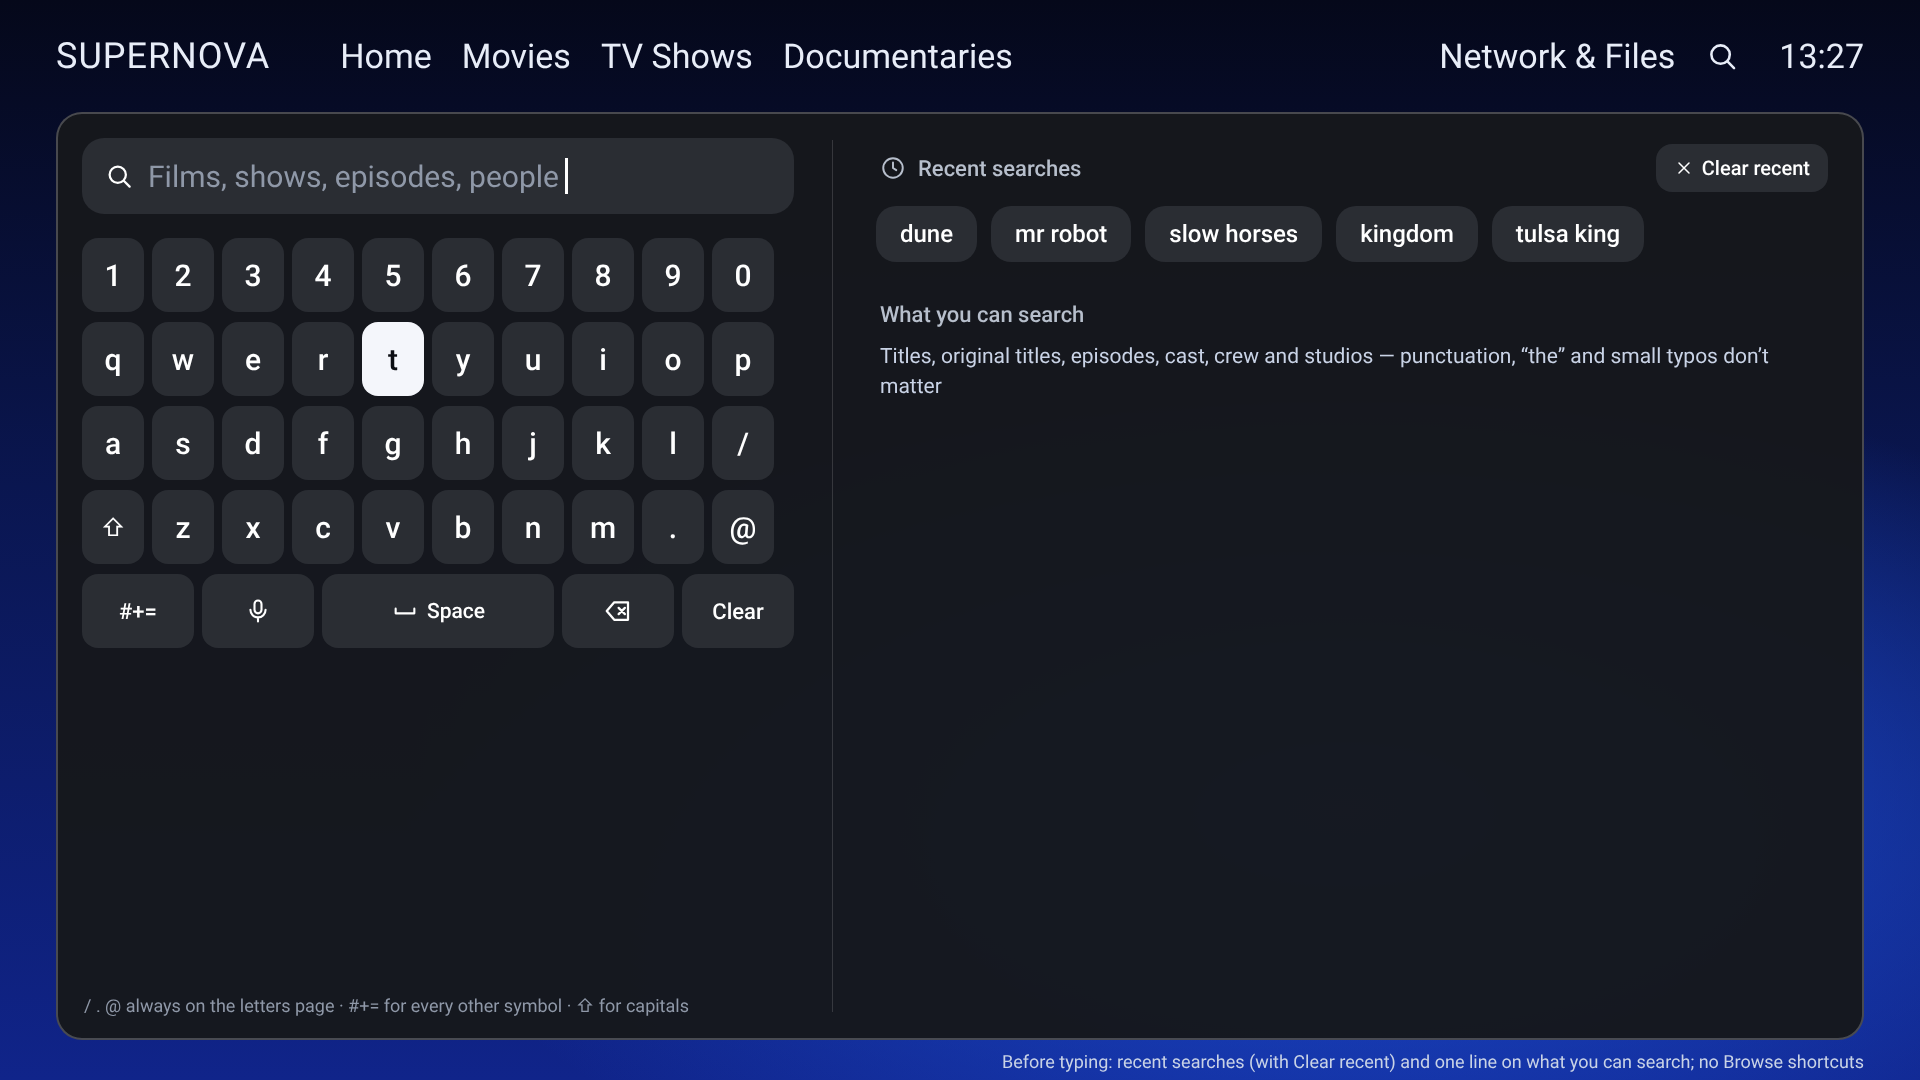
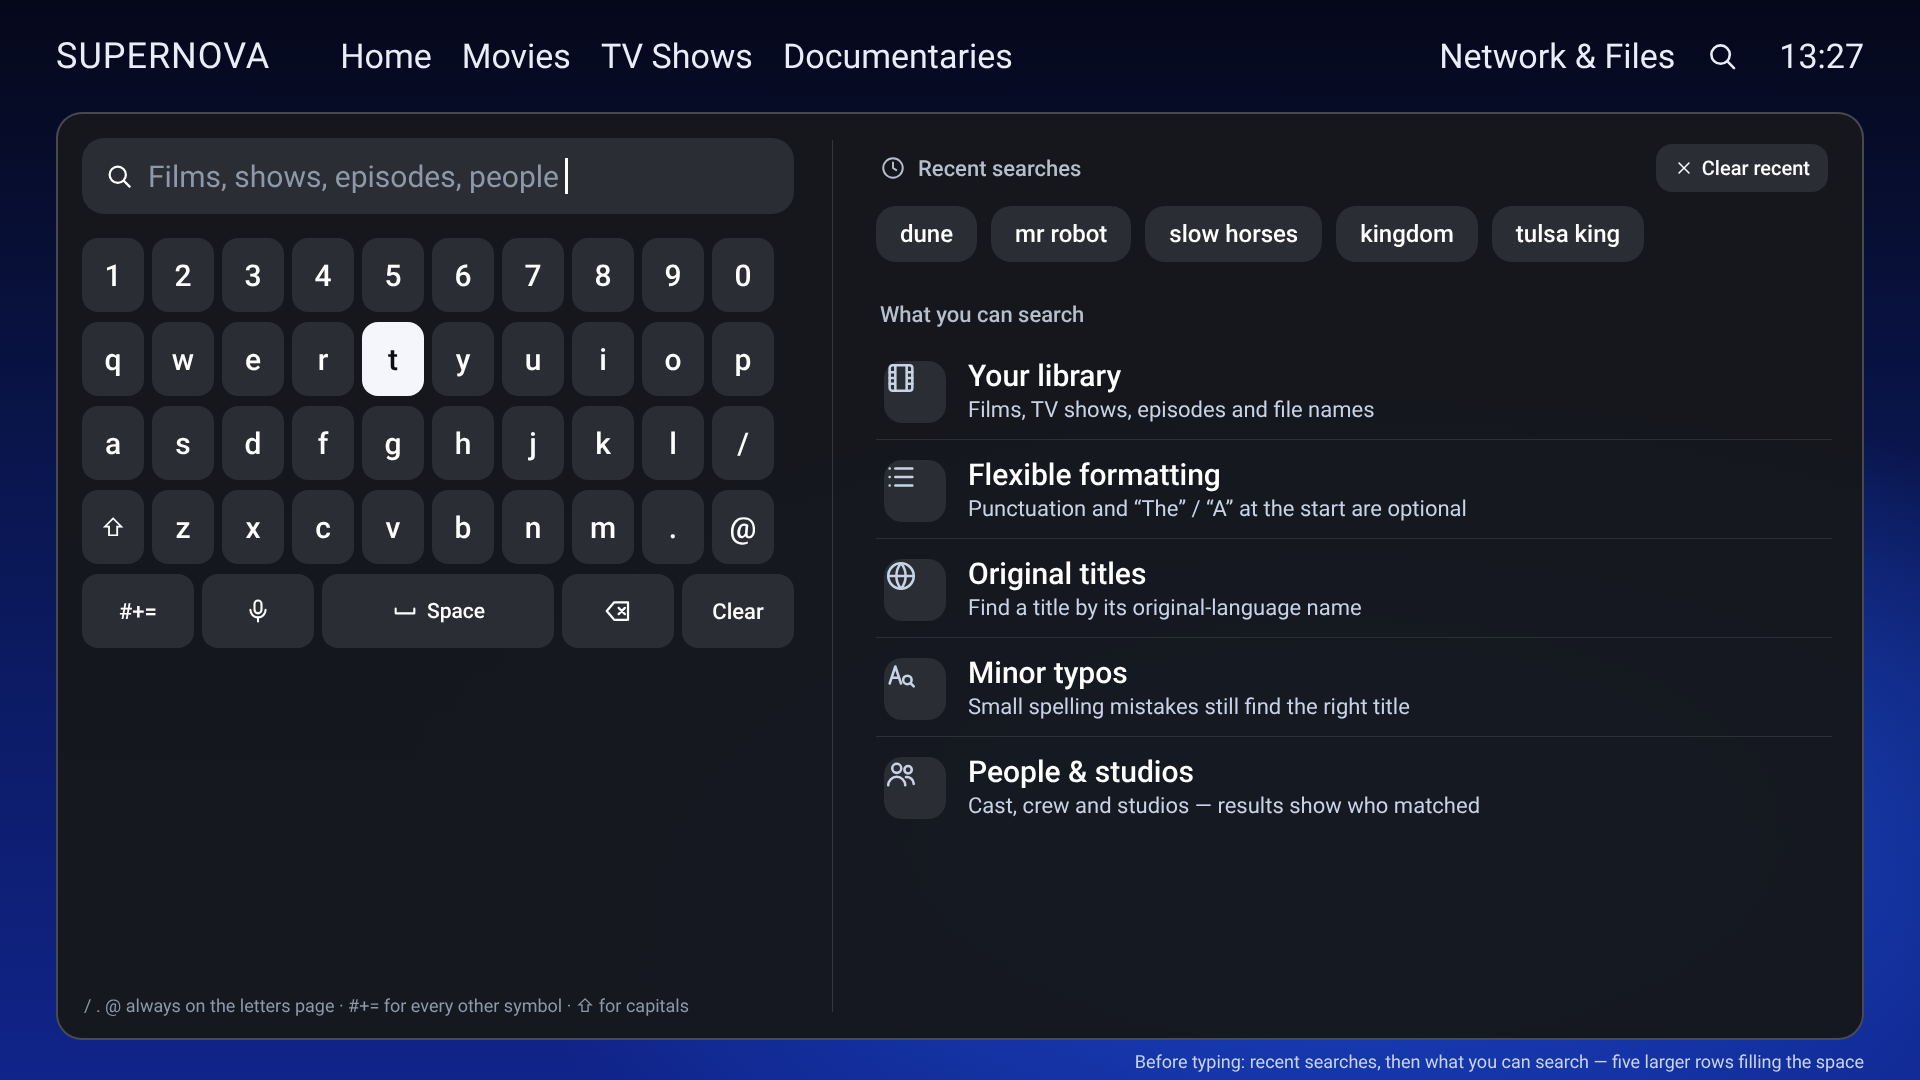
Search 07: what-you-can-search as five prominent rows
Claude-Session: https://claude.ai/code/session_01FtDZqamY6pdaUKwc7fqgiA

diff --git a/docs/design/proposals/search/render.js b/docs/design/proposals/search/render.js
@@ -44,13 +44,20 @@ const discover = (on) => `<div class="right"><div class="count">${on === 'All' ?
   ${r2('#c7a46a', 'Dune', '2021', 'Film · 155 min · 4K HDR · Science Fiction, Adventure', 1, true, 'dune')}
   ${r2('#e3a33a', 'Dune: Part Two', '2024', 'Film · 165 min · 4K HDR · Science Fiction, Adventure', .4, false, 'dune')}
   ${on === 'All' ? `<div class="sec">${ic('tv', 26)}Episodes · 1</div>${r2('#5f7a8c', 'Frontier · Dunes', 'S2 E4', 'Episode · 48 min · 1080p', 0, false, 'dune')}` : ''}</div>`;
+const P2 = { list: '<path d="M8 6h12M8 12h12M8 18h12M4 6h.01M4 12h.01M4 18h.01"/>', globe: '<circle cx="12" cy="12" r="9"/><path d="M3 12h18M12 3a14 14 0 0 1 0 18M12 3a14 14 0 0 0 0 18"/>',
+  typo: '<path d="M4 18l4-12 4 12M5.5 14h5"/><circle cx="16.5" cy="15.5" r="3"/><path d="M19 18l2 2"/>' };
+const ic2 = (k, s2 = 34) => `<svg width="${s2}" height="${s2}" viewBox="0 0 24 24" fill="none" stroke="currentColor" stroke-width="1.8" stroke-linecap="round" stroke-linejoin="round">${P2[k] || P[k]}</svg>`;
+const tips = [['film', 'Your library', 'Films, TV shows, episodes and file names'], ['list', 'Flexible formatting', 'Punctuation and “The” / “A” at the start are optional'],
+  ['globe', 'Original titles', 'Find a title by its original-language name'], ['typo', 'Minor typos', 'Small spelling mistakes still find the right title'],
+  ['people', 'People & studios', 'Cast, crew and studios — results show who matched']];
 const browse = `<div class="right"><div class="sec">${ic('clock', 26)}Recent searches<span class="spc"></span><span class="mini">${ic('clear', 20)}Clear recent</span></div>
   <div class="chips">${['dune', 'mr robot', 'slow horses', 'kingdom', 'tulsa king'].map(c => `<span class="chip">${c}</span>`).join('')}</div>
-  <div class="sec gap">What you can search</div><div class="tipline">Titles, original titles, episodes, cast, crew and studios — punctuation, “the” and small typos don’t matter</div></div>`;
+  <div class="sec gap">What you can search</div>
+  ${tips.map(([k, t, d]) => `<div class="tip2"><span class="ti">${ic2(k)}</span><div><b>${t}</b><span>${d}</span></div></div>`).join('')}</div>`;
 const shots = [
   ['05-discover-all.png', kb('dune', '') + discover('All'), 'All: library results only, grouped, with watched state and the typed letters in bold'],
   ['06-filter-films.png', kb('dune', '') + discover('Films'), 'Up from the results reaches the filters: Films shows only the films in your library'],
-  ['07-browse-before-typing.png', kb('', 't') + browse, 'Before typing: recent searches (with Clear recent) and one line on what you can search; no Browse shortcuts'],
+  ['07-browse-before-typing.png', kb('', 't') + browse, 'Before typing: recent searches, then what you can search — five larger rows filling the space'],
   ['03-keyboard-letters.png', kb('webdav.put.io/TV', '/', 'abc', false, 'Server address') + `<div class="ctx">The same keyboard is used everywhere — here, adding a network share</div>`, 'Letters page: number row, QWERTY, plus / . @ on the page; #+= opens all other symbols; Shift for capitals'],
   ['04-keyboard-symbols.png', kb('MyP@ss_2026!', '!', 'sym', false, 'Password') + `<div class="ctx">Symbols page: everything a password, URL or file path might need</div>`, 'Symbols page: ! # $ % & * ( ) - _ = + [ ] { } \\ | ~ ` : ; , ? \' " < > ^ — ABC returns to letters'],
   ['01-empty.png', kb('', 't') + empty, 'Before typing: one panel — keyboard on the left, recent searches (with Clear recent) and what you can search on the right'],
@@ -86,6 +93,9 @@ body{width:1920px;height:1080px;overflow:hidden;font-family:R;color:#fff;positio
 .wp.un{color:#9aa3b3;box-shadow:inset 0 0 0 1.5px rgba(255,255,255,.22)}.wp.un b{font-weight:400}
 .add{font-size:19px;color:#aab3c4;flex:none;height:40px;display:inline-flex;align-items:center;padding:0 16px;border-radius:20px;box-shadow:inset 0 0 0 1.5px rgba(255,255,255,.22)}
 .tiles{display:grid;grid-template-columns:1fr 1fr;gap:14px}.tile{height:104px;border-radius:20px;background:#2a2d33;padding:18px 22px;display:flex;flex-direction:column;justify-content:center}.tile b{font-size:26px;font-weight:500}.tile span{font-size:19px;color:#c9d3e6;margin-top:6px}
+.tip2{display:flex;align-items:center;gap:22px;padding:16px 8px;border-bottom:1px solid rgba(255,255,255,.1)}.tip2:last-child{border-bottom:none}
+.ti{width:62px;height:62px;border-radius:18px;background:#2a2d33;display:flex;align-items:center;justify-content:center;flex:none}
+.tip2 b{display:block;font-size:30px;font-weight:500}.tip2 span{display:block;font-size:22px;color:#c9d3e6;margin-top:4px}
 .tipline{font-size:21px;color:#c9d3e6;line-height:1.45;margin:0 4px}
 .label{position:absolute;right:56px;bottom:8px;font-size:18px;color:#c9d3e6}`;
 (async () => { const b = await chromium.launch(); const t = await b.newPage({ viewport: { width: 1920, height: 1080 } });

diff --git a/docs/0.155/OWNER_NOTES.md b/docs/0.155/OWNER_NOTES.md
@@ -279,4 +279,7 @@ Codex's branch `codex/0155-code-2026-11-04` (DP-01…DP-07, TV-only stages). **N
   shortcuts (library only), remembering the search and Play/Resume from results stay.
 - **Owner (4 Nov 2026):** remove the **Browse** shortcuts — the library pages already cover browsing, sorting and
   filtering, so they would duplicate them. `07` re-rendered: recent searches and the one-line tip only.
-- **Status:** approved as revised — awaiting go-ahead to code.
+- **Owner (4 Nov 2026):** make "what you can search" prominent again and fill the space (today's large text is
+  right in spirit; the one-line tip was too small). `07` re-rendered: under Recent searches, five rows with an icon tile,
+  30px title and 22px line — Your library · Flexible formatting · Original titles · Minor typos · People & studios.
+- **Status:** awaiting the owner's approval of the revised `07` — then awaiting go-ahead to code.
